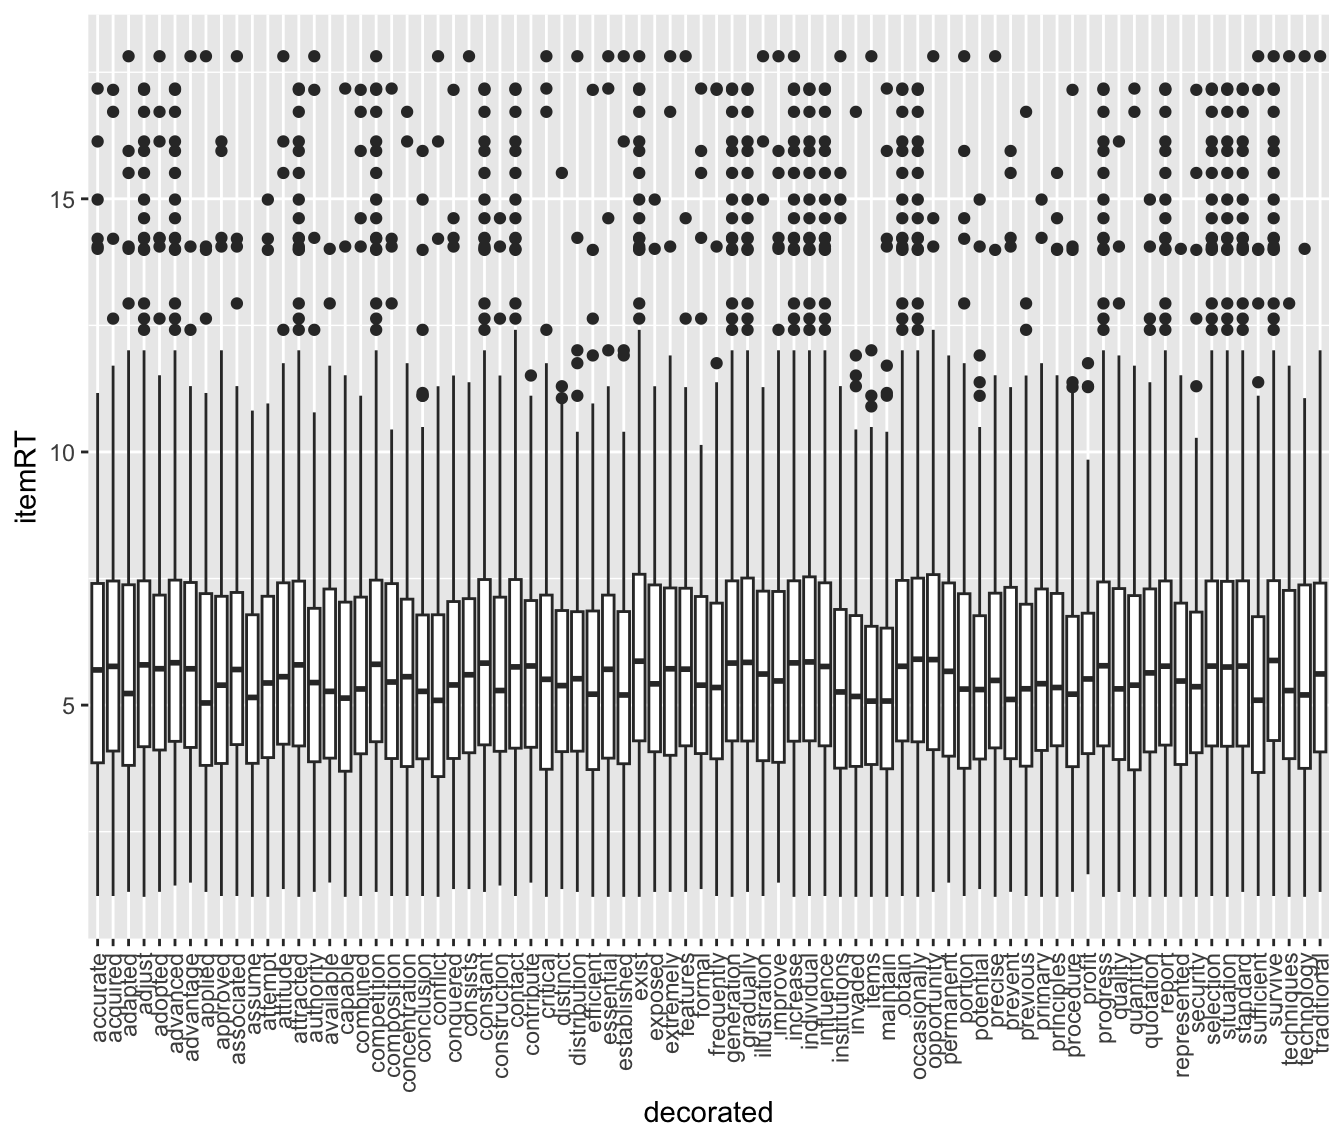
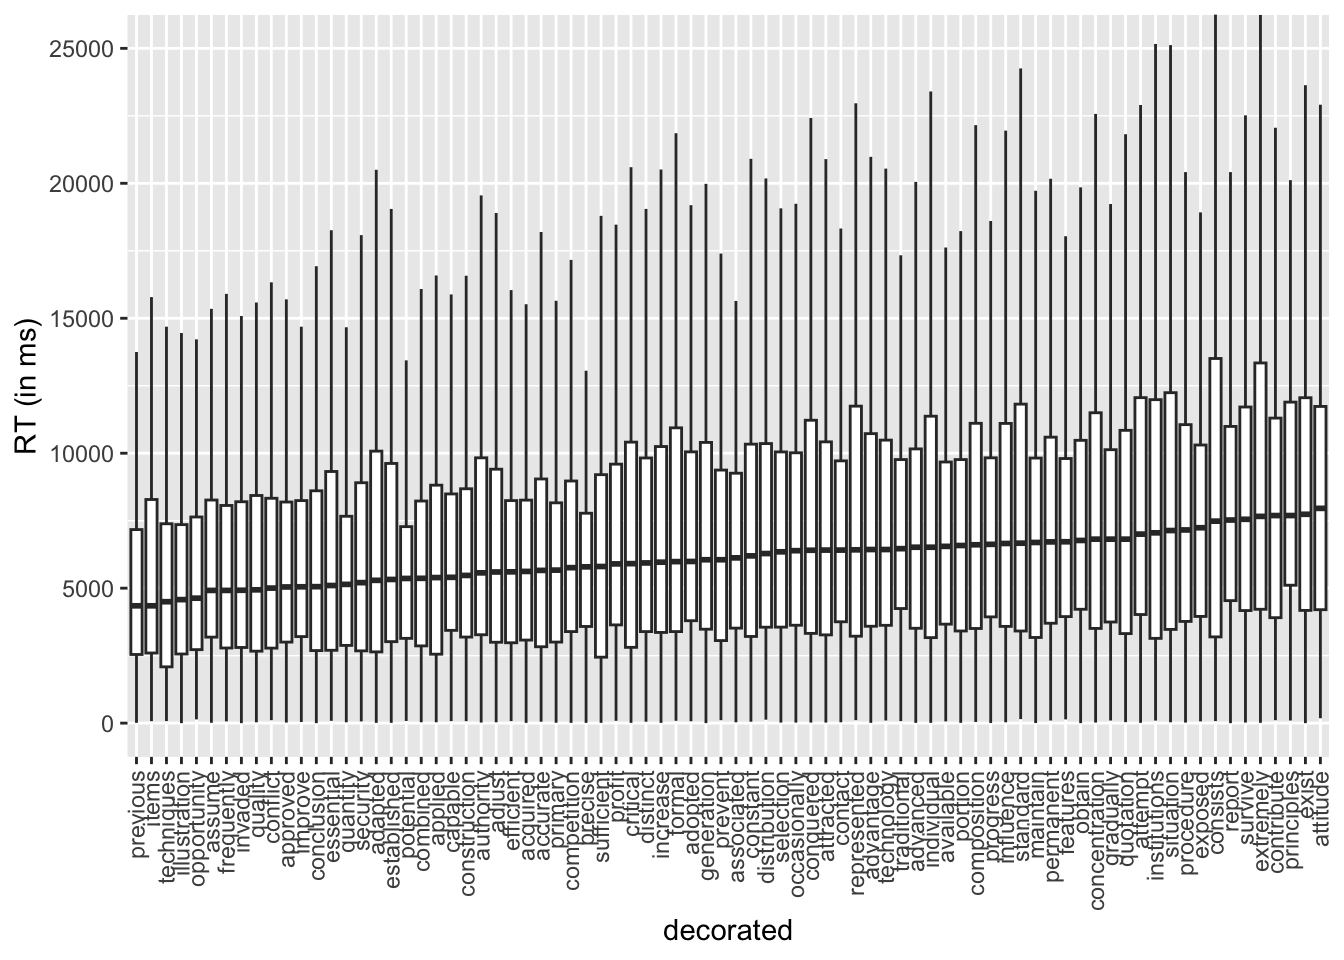
correct RT var and boxplot w/out outliers

diff --git a/docs/cva.RT.html b/docs/cva.RT.html
@@ -288,22 +288,26 @@ $(document).ready(function () {
 <ul>
 <li><a href="#item-level-response-time"
 id="toc-item-level-response-time">Item-level response time</a></li>
-<li><a href="#summary-table-for-the-item-level-rt"
-id="toc-summary-table-for-the-item-level-rt">Summary table for the
-item-level RT</a></li>
+<li><a href="#summary-table-for-the-item-level-rt-in-ms"
+id="toc-summary-table-for-the-item-level-rt-in-ms">Summary table for the
+item-level RT (in ms)</a></li>
 </ul>
 </div>
 
 <div id="item-level-response-time" class="section level3">
 <h3>Item-level response time</h3>
-<p>Boxplots below show the distribution of RT per item from 888 students
-in grades 2-5 at public schools.</p>
-<p><img src="cva.RT_files/figure-html/boxplot-1.png" width="98%" /></p>
+<p>Boxplots below show the distribution of RT (in milliseconds) for the
+81 CVA items from 888 students in grades 2-5 at public schools. X-axis
+are ordered by the median RT value, with the “previous” item being the
+shortest median RT (4,346.5 ms) while the “attitude” item the longest
+(7,957 ms).</p>
+<p><img src="cva.RT_files/figure-html/boxplot-1.png" width="672" /></p>
 </div>
-<div id="summary-table-for-the-item-level-rt" class="section level3">
-<h3>Summary table for the item-level RT</h3>
-<div class="datatables html-widget html-fill-item" id="htmlwidget-27112b79ef2e7e73b78b" style="width:100%;height:auto;"></div>
-<script type="application/json" data-for="htmlwidget-27112b79ef2e7e73b78b">{"x":{"filter":"none","vertical":false,"data":[["accurate","acquired","adapted","adjust","adopted","advanced","advantage","applied","approved","associated","assume","attempt","attitude","attracted","authority","available","capable","combined","competition","composition","concentration","conclusion","conflict","conquered","consists","constant","construction","contact","contribute","critical","distinct","distribution","efficient","essential","established","exist","exposed","extremely","features","formal","frequently","generation","gradually","illustration","improve","increase","individual","influence","institutions","invaded","items","maintain","obtain","occasionally","opportunity","permanent","portion","potential","precise","prevent","previous","primary","principles","procedure","profit","progress","quality","quantity","quotation","report","represented","security","selection","situation","standard","sufficient","survive","techniques","technology","traditional"],[194,182,214,661,230,663,207,191,227,217,199,174,201,675,203,193,232,200,663,214,221,201,195,216,202,669,197,677,194,217,230,195,190,201,205,674,213,195,185,223,205,678,678,215,210,688,677,673,214,214,208,194,676,661,212,212,200,204,208,204,218,214,215,226,192,676,199,211,211,696,205,199,687,667,681,213,661,202,229,191],[5.917718298902217,6.006197069503449,5.747922274126814,6.048282047353245,5.856218333330707,6.077273629927168,5.978811996724103,5.509809162208963,5.703243391979458,5.856247234893834,5.388594220990512,5.682266379110658,5.888774129249168,6.037577950577677,5.618770525706029,5.644262607954121,5.433756249954645,5.70183416646719,6.064397209640003,5.723947118357334,5.702673981829826,5.552489552193416,5.428079401611263,5.66157908934502,5.734349752377362,6.064619855489907,5.70316708941145,6.024951353964108,5.691947594233804,5.686837327114082,5.560869057783182,5.587457692235963,5.520945701766433,5.838932918652175,5.476719593478412,6.147456552909225,5.716492253532619,5.791801794818324,5.857386035919189,5.697385351326433,5.701361056634081,6.067672295919679,6.078380039266897,5.748152247879856,5.869779999842719,6.068173304234826,6.079864623281299,6.013007577998382,5.608113629572859,5.443671806913299,5.271184535229053,5.473952405456825,6.058667209027317,6.084289309098392,5.942102358438683,5.736629874038996,5.636461416641871,5.535402124146231,5.699168188984578,5.632503512891289,5.501873164949796,5.732332165014706,5.835591007683628,5.552235103093065,5.486460763836901,6.023106336252694,5.642674120646626,5.644487914560719,5.76309747232645,6.013570833308943,5.536184146191046,5.632286850831018,6.024459194518131,6.008801674092191,6.034137909866348,5.464775351944477,6.108866641446911,5.627878135206676,5.606165720489868,5.891302355941885],[2.76505889649063,2.545732601018915,2.740834207628398,2.568414268375346,2.694078511969106,2.544512581573898,2.367787493736401,2.566119720778925,2.53954907223258,2.468900695295346,2.161484730092029,2.35082495500982,2.550774768729609,2.579760895840303,2.478359447547609,2.351092646667966,2.324334099555857,2.616340749219407,2.587482815010967,2.431638931580415,2.482705269900192,2.450421005108872,2.538305813962219,2.498839303230731,2.488693609392072,2.583151679610685,2.351886077381736,2.568256285930805,2.101319257233417,2.644114009206981,2.247788932509041,2.408827169991322,2.488271713954763,2.608702567349742,2.41233826770946,2.612436445039004,2.364018253144159,2.534213550561453,2.431606331711737,2.515812129026279,2.638498775149507,2.549801424802254,2.543234465690057,2.457375662637825,2.820142608804453,2.584116157376833,2.561758903625702,2.555789583389339,2.649650049653468,2.295239773973496,2.261952216109008,2.574586901041725,2.58009393752064,2.57351099278622,2.530220581251811,2.164493180291097,2.606052622545687,2.318861937573276,2.335533752661028,2.564950220847348,2.348354988496695,2.419247386445911,2.502224423212176,2.432167265417221,2.084191540018845,2.522438934137121,2.473301831108466,2.50511103191885,2.440901524106216,2.551305309416838,2.416000809843993,2.480555195173288,2.583934806407775,2.56320170977075,2.57528554319114,2.713378611613414,2.601405720573773,2.444678980122761,2.391996792258869,2.411857133118675],[1.22971666653951,1.22971666653951,1.311783333619436,1.213016668955485,1.311783333619436,1.436183333396912,1.493516667683919,1.310099999109904,1.22971666653951,1.22971666653951,1.213016668955485,1.213016668955485,1.366699997584025,1.213016668955485,1.311783333619436,1.495583331584931,1.213016668955485,1.22971666653951,1.310099999109904,1.22971666653951,1.22971666653951,1.22971666653951,1.213016668955485,1.366699997584025,1.366699997584025,1.310099999109904,1.436183333396912,1.22971666653951,1.493516667683919,1.213016668955485,1.366699997584025,1.310099999109904,1.213016668955485,1.213016668955485,1.213016668955485,1.213016668955485,1.310099999109904,1.310099999109904,1.310099999109904,1.366699997584025,1.22971666653951,1.213016668955485,1.310099999109904,1.22971666653951,1.493516667683919,1.213016668955485,1.22971666653951,1.22971666653951,1.213016668955485,1.213016668955485,1.213016668955485,1.213016668955485,1.22971666653951,1.213016668955485,1.310099999109904,1.493516667683919,1.22971666653951,1.366699997584025,1.213016668955485,1.311783333619436,1.22971666653951,1.213016668955485,1.213016668955485,1.311783333619436,1.659450002511342,1.213016668955485,1.310099999109904,1.213016668955485,1.213016668955485,1.213016668955485,1.213016668955485,1.213016668955485,1.22971666653951,1.213016668955485,1.310099999109904,1.22971666653951,1.22971666653951,1.213016668955485,1.213016668955485,1.310099999109904],[3.858116666475932,4.090583332379659,3.798883330821991,4.178416665395101,4.111899999777476,4.284074999888738,4.163683331012725,3.809074999888738,3.847191665569941,4.22034999926885,3.85,3.952449997266134,4.227766668796539,4.193341668446859,3.88101666768392,3.952449997266134,3.690750000874202,4.015224999189376,4.276725000143051,3.942116669813792,3.786950000127157,3.939166665077209,3.588408333063126,3.943658332029979,4.056850000222524,4.214800000190735,4.087350002924601,4.149466665585836,4.158633331457774,3.732750002543132,4.079199997584025,4.090483331680298,3.723133333524068,3.952449997266134,3.841749997933706,4.294416666030884,4.078466665744782,4.008816665410995,4.195683336257934,4.043049999078115,3.939166665077209,4.292866667111714,4.289683334032694,3.902199999491374,3.866933333873749,4.284074999888738,4.294416666030884,4.195683336257934,3.744483335812887,3.788549999396006,3.812333331505458,3.73921666542689,4.291275000572204,4.274983334541321,4.118816667795182,3.975133335590362,3.747766665617625,3.921625000238419,4.136233333746592,3.930874997377396,3.786950000127157,4.098883334795634,4.196608332792918,3.782916665077209,4.012199997901917,4.193341668446859,3.925583332777023,3.721158335606257,4.075208332141241,4.205241668224335,3.827449997266134,4.059358332554499,4.193341668446859,4.186908332506816,4.191000000635783,3.669433331489563,4.300150001049042,3.939166665077209,3.750449999173482,4.075574998060862],[5.694808334112167,5.765024999777475,5.228883334000905,5.794766668478648,5.71860000093778,5.836800003051758,5.717316667238872,5.042733331521352,5.3939333319664,5.703166667620341,5.151449998219808,5.436958334843318,5.560983331998189,5.794766668478648,5.44503333568573,5.271450002988179,5.138058332602183,5.318833335240682,5.806133329868317,5.4561583340168,5.560983331998189,5.271450002988179,5.093616664409637,5.398283332586288,5.599399997790655,5.829299998283386,5.288116665681203,5.754683335622151,5.773058331012725,5.50951666434606,5.385408331950505,5.520916664600373,5.215825001398722,5.707450000445048,5.200200001398723,5.867391665776571,5.419683333237966,5.717316667238872,5.709983332951864,5.3939333319664,5.347516667842865,5.830416667461396,5.843716667095821,5.613716669877371,5.477275000015895,5.834166669845581,5.852799999713898,5.762899998823801,5.260008333126704,5.171066665649414,5.078466667731603,5.080425000190735,5.766824998458226,5.906149999300639,5.899033333857854,5.666816665728887,5.316533335049947,5.307308334112167,5.487549998362859,5.111700000365575,5.322324999173482,5.422866666316986,5.347516667842865,5.216024998823801,5.516591666142146,5.777158331871033,5.320716667175293,5.3939333319664,5.636466666062673,5.769133331378301,5.475383333365122,5.363549999396006,5.770749998092652,5.752016667524973,5.770749998092652,5.096716666221619,5.881549998124441,5.287283333142598,5.201016664505005,5.615450000762939],[7.406983335812886,7.454383333524068,7.377950000762939,7.454383333524068,7.173249999682109,7.469150000810624,7.421858334541321,7.202266667286555,7.149166665474574,7.224866664409637,6.784450000524521,7.153166663646698,7.415416665871938,7.448924998442332,6.911658330758413,7.293183334668478,7.053541666269302,7.141274998585383,7.469150000810624,7.406983335812886,7.092616665363312,6.780700000127156,6.784450000524521,7.076616666714351,7.125083331267039,7.480449998378754,7.132133332888285,7.480449998378754,7.075683335463206,7.173249999682109,6.875049996376037,6.845441667238871,6.875049996376037,7.172916666666667,6.847633334000905,7.587416664759318,7.373783334096273,7.31390000184377,7.308216667175293,7.14532499909401,7.014466667175293,7.454383333524068,7.510416666666667,7.251216667890549,7.25130000114441,7.456116668383281,7.533449999491373,7.415416665871938,6.897516667842865,6.780700000127156,6.55780000090599,6.522433332602183,7.469150000810624,7.50808333158493,7.586916667222976,7.419250001509984,7.202266667286555,6.785300000508625,7.224424999952316,7.34369166692098,7.035049998760224,7.294316669305165,7.205525000890097,6.755816666285197,6.818316668272018,7.433008335034053,7.301783335208893,7.163149998585383,7.29510000149409,7.452158331871033,7.014466667175293,6.83732500076294,7.452158331871033,7.443791665633519,7.454383333524068,6.746549999713897,7.457850003242493,7.270083336035411,7.373783334096273,7.410266667604446],[17.17790000041326,17.15251666704814,17.81608333190282,17.17790000041326,17.81608333190282,17.17790000041326,17.81608333190282,17.81608333190282,16.13324999809265,17.81608333190282,10.81730000178019,14.98561666806539,17.81608333190282,17.17790000041326,17.81608333190282,14.01196666558584,17.17790000041326,17.15251666704814,17.81608333190282,17.17790000041326,16.71828333536784,15.94533333381017,17.81608333190282,17.15251666704814,17.81608333190282,17.17790000041326,14.61656666596731,17.17790000041326,11.51003333330154,17.81608333190282,15.51073333422343,17.81608333190282,17.15251666704814,17.81608333190282,17.81608333190282,17.81608333190282,14.98561666806539,17.81608333190282,17.81608333190282,17.17790000041326,17.17790000041326,17.17790000041326,17.17790000041326,17.81608333190282,17.81608333190282,17.81608333190282,17.17790000041326,17.17790000041326,17.81608333190282,16.71828333536784,17.81608333190282,17.17790000041326,17.17790000041326,17.17790000041326,17.81608333190282,11.90656666755676,17.81608333190282,14.98561666806539,17.81608333190282,15.94533333381017,16.71828333536784,14.98561666806539,15.51073333422343,17.15251666704814,11.75336666504542,17.17790000041326,16.13324999809265,17.17790000041326,14.98561666806539,17.17790000041326,14.01196666558584,17.15251666704814,17.17790000041326,17.17790000041326,17.17790000041326,17.81608333190282,17.81608333190282,17.81608333190282,17.81608333190282,17.81608333190282]],"container":"<table class=\"display\">\n  <thead>\n    <tr>\n      <th>decorated<\/th>\n      <th>n<\/th>\n      <th>mean<\/th>\n      <th>sd<\/th>\n      <th>min<\/th>\n      <th>Q1<\/th>\n      <th>median<\/th>\n      <th>Q3<\/th>\n      <th>max<\/th>\n    <\/tr>\n  <\/thead>\n<\/table>","options":{"columnDefs":[{"targets":2,"render":"function(data, type, row, meta) {\n    return type !== 'display' ? data : DTWidget.formatRound(data, 2, 3, \",\", \".\", null);\n  }"},{"targets":3,"render":"function(data, type, row, meta) {\n    return type !== 'display' ? data : DTWidget.formatRound(data, 2, 3, \",\", \".\", null);\n  }"},{"targets":4,"render":"function(data, type, row, meta) {\n    return type !== 'display' ? data : DTWidget.formatRound(data, 2, 3, \",\", \".\", null);\n  }"},{"targets":5,"render":"function(data, type, row, meta) {\n    return type !== 'display' ? data : DTWidget.formatRound(data, 2, 3, \",\", \".\", null);\n  }"},{"targets":6,"render":"function(data, type, row, meta) {\n    return type !== 'display' ? data : DTWidget.formatRound(data, 2, 3, \",\", \".\", null);\n  }"},{"targets":7,"render":"function(data, type, row, meta) {\n    return type !== 'display' ? data : DTWidget.formatRound(data, 2, 3, \",\", \".\", null);\n  }"},{"targets":8,"render":"function(data, type, row, meta) {\n    return type !== 'display' ? data : DTWidget.formatRound(data, 2, 3, \",\", \".\", null);\n  }"},{"className":"dt-right","targets":[1,3]},{"name":"decorated","targets":0},{"name":"n","targets":1},{"name":"mean","targets":2},{"name":"sd","targets":3},{"name":"min","targets":4},{"name":"Q1","targets":5},{"name":"median","targets":6},{"name":"Q3","targets":7},{"name":"max","targets":8}],"order":[],"autoWidth":false,"orderClasses":false},"selection":{"mode":"multiple","selected":null,"target":"row","selectable":null}},"evals":["options.columnDefs.0.render","options.columnDefs.1.render","options.columnDefs.2.render","options.columnDefs.3.render","options.columnDefs.4.render","options.columnDefs.5.render","options.columnDefs.6.render"],"jsHooks":[]}</script>
+<div id="summary-table-for-the-item-level-rt-in-ms"
+class="section level3">
+<h3>Summary table for the item-level RT (in ms)</h3>
+<div class="datatables html-widget html-fill-item" id="htmlwidget-757354b8e82e09c713a8" style="width:100%;height:auto;"></div>
+<script type="application/json" data-for="htmlwidget-757354b8e82e09c713a8">{"x":{"filter":"none","vertical":false,"data":[["accurate","acquired","adapted","adjust","adopted","advanced","advantage","applied","approved","associated","assume","attempt","attitude","attracted","authority","available","capable","combined","competition","composition","concentration","conclusion","conflict","conquered","consists","constant","construction","contact","contribute","critical","distinct","distribution","efficient","essential","established","exist","exposed","extremely","features","formal","frequently","generation","gradually","illustration","improve","increase","individual","influence","institutions","invaded","items","maintain","obtain","occasionally","opportunity","permanent","portion","potential","precise","prevent","previous","primary","principles","procedure","profit","progress","quality","quantity","quotation","report","represented","security","selection","situation","standard","sufficient","survive","techniques","technology","traditional"],[194,182,214,661,230,663,207,191,227,217,199,174,201,675,203,193,232,200,663,214,221,201,195,216,202,669,197,677,194,217,230,195,190,201,205,674,213,195,185,223,205,678,678,215,210,688,677,673,214,214,208,194,676,661,212,212,200,204,208,204,218,214,215,226,192,676,199,211,211,696,205,199,687,667,681,213,661,202,229,191],[8694.123711340206,6818.005494505494,7945.705607476635,7426.329803328291,8366.760869565218,8539.105580693817,8562.937198067633,6881.649214659686,6687.696035242291,7780.221198156682,6557.618090452262,8942.149425287356,9329.139303482587,8289.721481481482,7603.467980295566,8516.725388601037,6444.323275862069,6640.12,7335.526395173454,9657.929906542056,8358.900452488688,7230.985074626866,7438.25641025641,8293.888888888889,10592.78712871287,8387.741405082212,6744.269035532995,8034.094534711964,8751.953608247422,8134.884792626728,7846.365217391304,9338.774358974359,6611.236842105263,8123.268656716418,8123.039024390244,9672.053412462908,9657.68075117371,11164.05128205128,7924.075675675675,8485.65470852018,6588.853658536585,8322.803834808259,8049.120943952802,6041.520930232558,6937.585714285714,8300.962209302326,8737.020679468242,9005.203566121843,8607.742990654206,6732,6623.221153846154,8118.829896907217,8334.42899408284,7967.069591527988,6686.528301886792,8522.971698113208,8499.915000000001,7124.808823529412,7247.567307692308,7520.186274509804,6674.573394495413,7491.607476635514,12128.35348837209,11645.24336283186,7313.109375,7933.76775147929,6343.43216080402,6670.056872037915,8503.928909952607,8986.751436781609,9011.692682926829,7165.276381909548,7866.173216885008,9205.167916041979,9153.4140969163,7110.723004694835,9857.527987897125,7117.658415841584,8133.449781659388,8564.649214659687],[21635.96163642381,6362.055540595909,9343.101857594022,7620.331697634562,9023.62208568084,12269.43483363729,8322.620462920508,8121.345278597429,6233.924408515908,7607.638810755866,5721.305271965884,7545.230453857621,9226.491578086305,8787.067444232653,8660.72503725868,10800.66409234424,5062.637842601754,7699.355331337226,7532.126552558609,12291.54369947854,7108.616457194733,9039.622017804511,9554.787880920163,7271.225558492916,11492.24809200496,9533.196514225276,5955.082556848666,8591.723689948529,7302.225982066937,9062.822964390733,7133.170023362053,16490.30139735559,6050.456836284018,11365.4840036605,9736.641996654629,10753.01150838088,17911.42272936609,15430.89288519851,7205.098532553687,8393.51933951184,6384.528379257001,9266.538945630473,7338.827268986616,5887.708484970968,8074.549096083205,8312.893685768164,9397.902430083563,9747.134782840967,7903.762199450783,7806.848586623164,7943.723641583327,8074.975005780018,7729.251647891416,7663.057520851384,8646.590525177868,8923.558567427246,11785.63070963512,9300.593034628697,8900.883554648875,7635.220848381174,17070.45710829952,10139.82479708721,23253.05306385271,32847.40358334548,6043.80514076997,6422.473041453964,5776.926836206224,7354.719291952401,10956.52496263422,7901.63002890334,9640.03580297004,8682.328871642012,7724.997371034415,9146.978530095068,9136.200684737665,7795.697432902621,11873.77314381601,15953.61110940101,7823.749056634877,12540.64584702529],[53,11,11,32,70,11,11,32,21,32,13,11,181,21,21,64,75,32,11,43,21,0,107,21,75,53,72,32,107,11,53,128,75,85,11,0,64,12,139,85,64,0,96,0,43,11,11,32,93,0,72,5,0,21,139,96,11,81,11,107,11,15,96,21,85,6,32,32,37,0,109,64,21,32,149,11,21,75,96,75],[2827,3072,2595,2997,3776,3514.5,3589,2554.5,3002.5,3520,3186.5,3989,4203,3269.5,3274.5,3667,3429,2832,3392,3477,3509,2688,2779,3322.5,3147,3211,3189,3755,3904,2808,3384,3554.5,2912,2699,3019,4171,3953,4218.5,3947,3392,2784,3477,3744,2561,3190,3360,3168,3584,3125,2795,2592.5,3136,4213.5,3627,2704,3658.5,3399.5,3125,3578.5,3056,2517,2987,5109.5,3755,3592.5,3936,2666.5,2880,3317.5,4533.5,3221,2677.5,3557.5,3472,3413,2443,4171,2048,3624,4245.5],[5658.5,5621,5290.5,5600,5989.5,6517,6432,5393,5045,6123,4917,7002.5,7957,6411,5568,6549,5402.5,5365,5760,6608,6816,5056,5003,6405,7483,6197,5472,6411,7690.5,5909,5935,6283,5605.5,5099,5323,7738,7239,7660,6720,5984,4917,6053.5,6816,4576,5051.5,5963,6517,6656,7050.5,4923,4347,6693.5,6768,6389,4629.5,6715,6581,5360,5790.5,6053.5,4346.5,5669,7691,7157,5900,6624,4939,5141,6816,7525,6421,5205,6347,7136,6667,5803,7552,4498.5,6432,6464],[9101,8267,10091,9408,10144,10160,10725.5,8816,8192,9259,8265.5,12064,11733,10421,9829.5,9675,8498,8234.5,8971,11125,11499,8608,8330.5,11232,13568,10336,8683,9717,11328,10411,9888,10357.5,8256,9323,9621,12064,10304,13344,9803,10940.5,8064,10400,10133,7354.5,8309,10254.5,11371,11104,12043,8277,8293,9845,10480,10016,7648,10608,9781,7285,7788,9386.5,7179,8181,11893.5,11061,9600,9834.5,8433.5,7664,10848,10997.5,11744,8906.5,10048,12242.5,11819,9205,11712,7395,10485,9765],[280555,55456,73547,78411,72853,218672,47819,77728,37461,63264,40226,39520,97771,108747,90603,93053,38037,75211,102816,88854,51157,66571,70869,46768,65326,102315,43595,109653,47808,80582,40907,206869,41163,93701,75541,125931,184632,169077,53653,63469,38837,111701,82987,47435,67723,75637,123851,112107,57716,69856,70112,67477,83008,89365,90715,85438,122592,98432,94357,59392,245269,118805,301973,460309,44885,40763,34827,53344,136149,70400,66144,77707,95989,94016,102517,62357,165995,214293,74261,147488]],"container":"<table class=\"display\">\n  <thead>\n    <tr>\n      <th>decorated<\/th>\n      <th>n<\/th>\n      <th>mean<\/th>\n      <th>sd<\/th>\n      <th>min<\/th>\n      <th>Q1<\/th>\n      <th>median<\/th>\n      <th>Q3<\/th>\n      <th>max<\/th>\n    <\/tr>\n  <\/thead>\n<\/table>","options":{"columnDefs":[{"targets":2,"render":"function(data, type, row, meta) {\n    return type !== 'display' ? data : DTWidget.formatRound(data, 2, 3, \",\", \".\", null);\n  }"},{"targets":3,"render":"function(data, type, row, meta) {\n    return type !== 'display' ? data : DTWidget.formatRound(data, 2, 3, \",\", \".\", null);\n  }"},{"targets":4,"render":"function(data, type, row, meta) {\n    return type !== 'display' ? data : DTWidget.formatRound(data, 2, 3, \",\", \".\", null);\n  }"},{"targets":5,"render":"function(data, type, row, meta) {\n    return type !== 'display' ? data : DTWidget.formatRound(data, 2, 3, \",\", \".\", null);\n  }"},{"targets":6,"render":"function(data, type, row, meta) {\n    return type !== 'display' ? data : DTWidget.formatRound(data, 2, 3, \",\", \".\", null);\n  }"},{"targets":7,"render":"function(data, type, row, meta) {\n    return type !== 'display' ? data : DTWidget.formatRound(data, 2, 3, \",\", \".\", null);\n  }"},{"targets":8,"render":"function(data, type, row, meta) {\n    return type !== 'display' ? data : DTWidget.formatRound(data, 2, 3, \",\", \".\", null);\n  }"},{"className":"dt-right","targets":[1,2,3,4,5,6,7,8]},{"name":"decorated","targets":0},{"name":"n","targets":1},{"name":"mean","targets":2},{"name":"sd","targets":3},{"name":"min","targets":4},{"name":"Q1","targets":5},{"name":"median","targets":6},{"name":"Q3","targets":7},{"name":"max","targets":8}],"order":[],"autoWidth":false,"orderClasses":false}},"evals":["options.columnDefs.0.render","options.columnDefs.1.render","options.columnDefs.2.render","options.columnDefs.3.render","options.columnDefs.4.render","options.columnDefs.5.render","options.columnDefs.6.render"],"jsHooks":[]}</script>
 </div>
 
 
